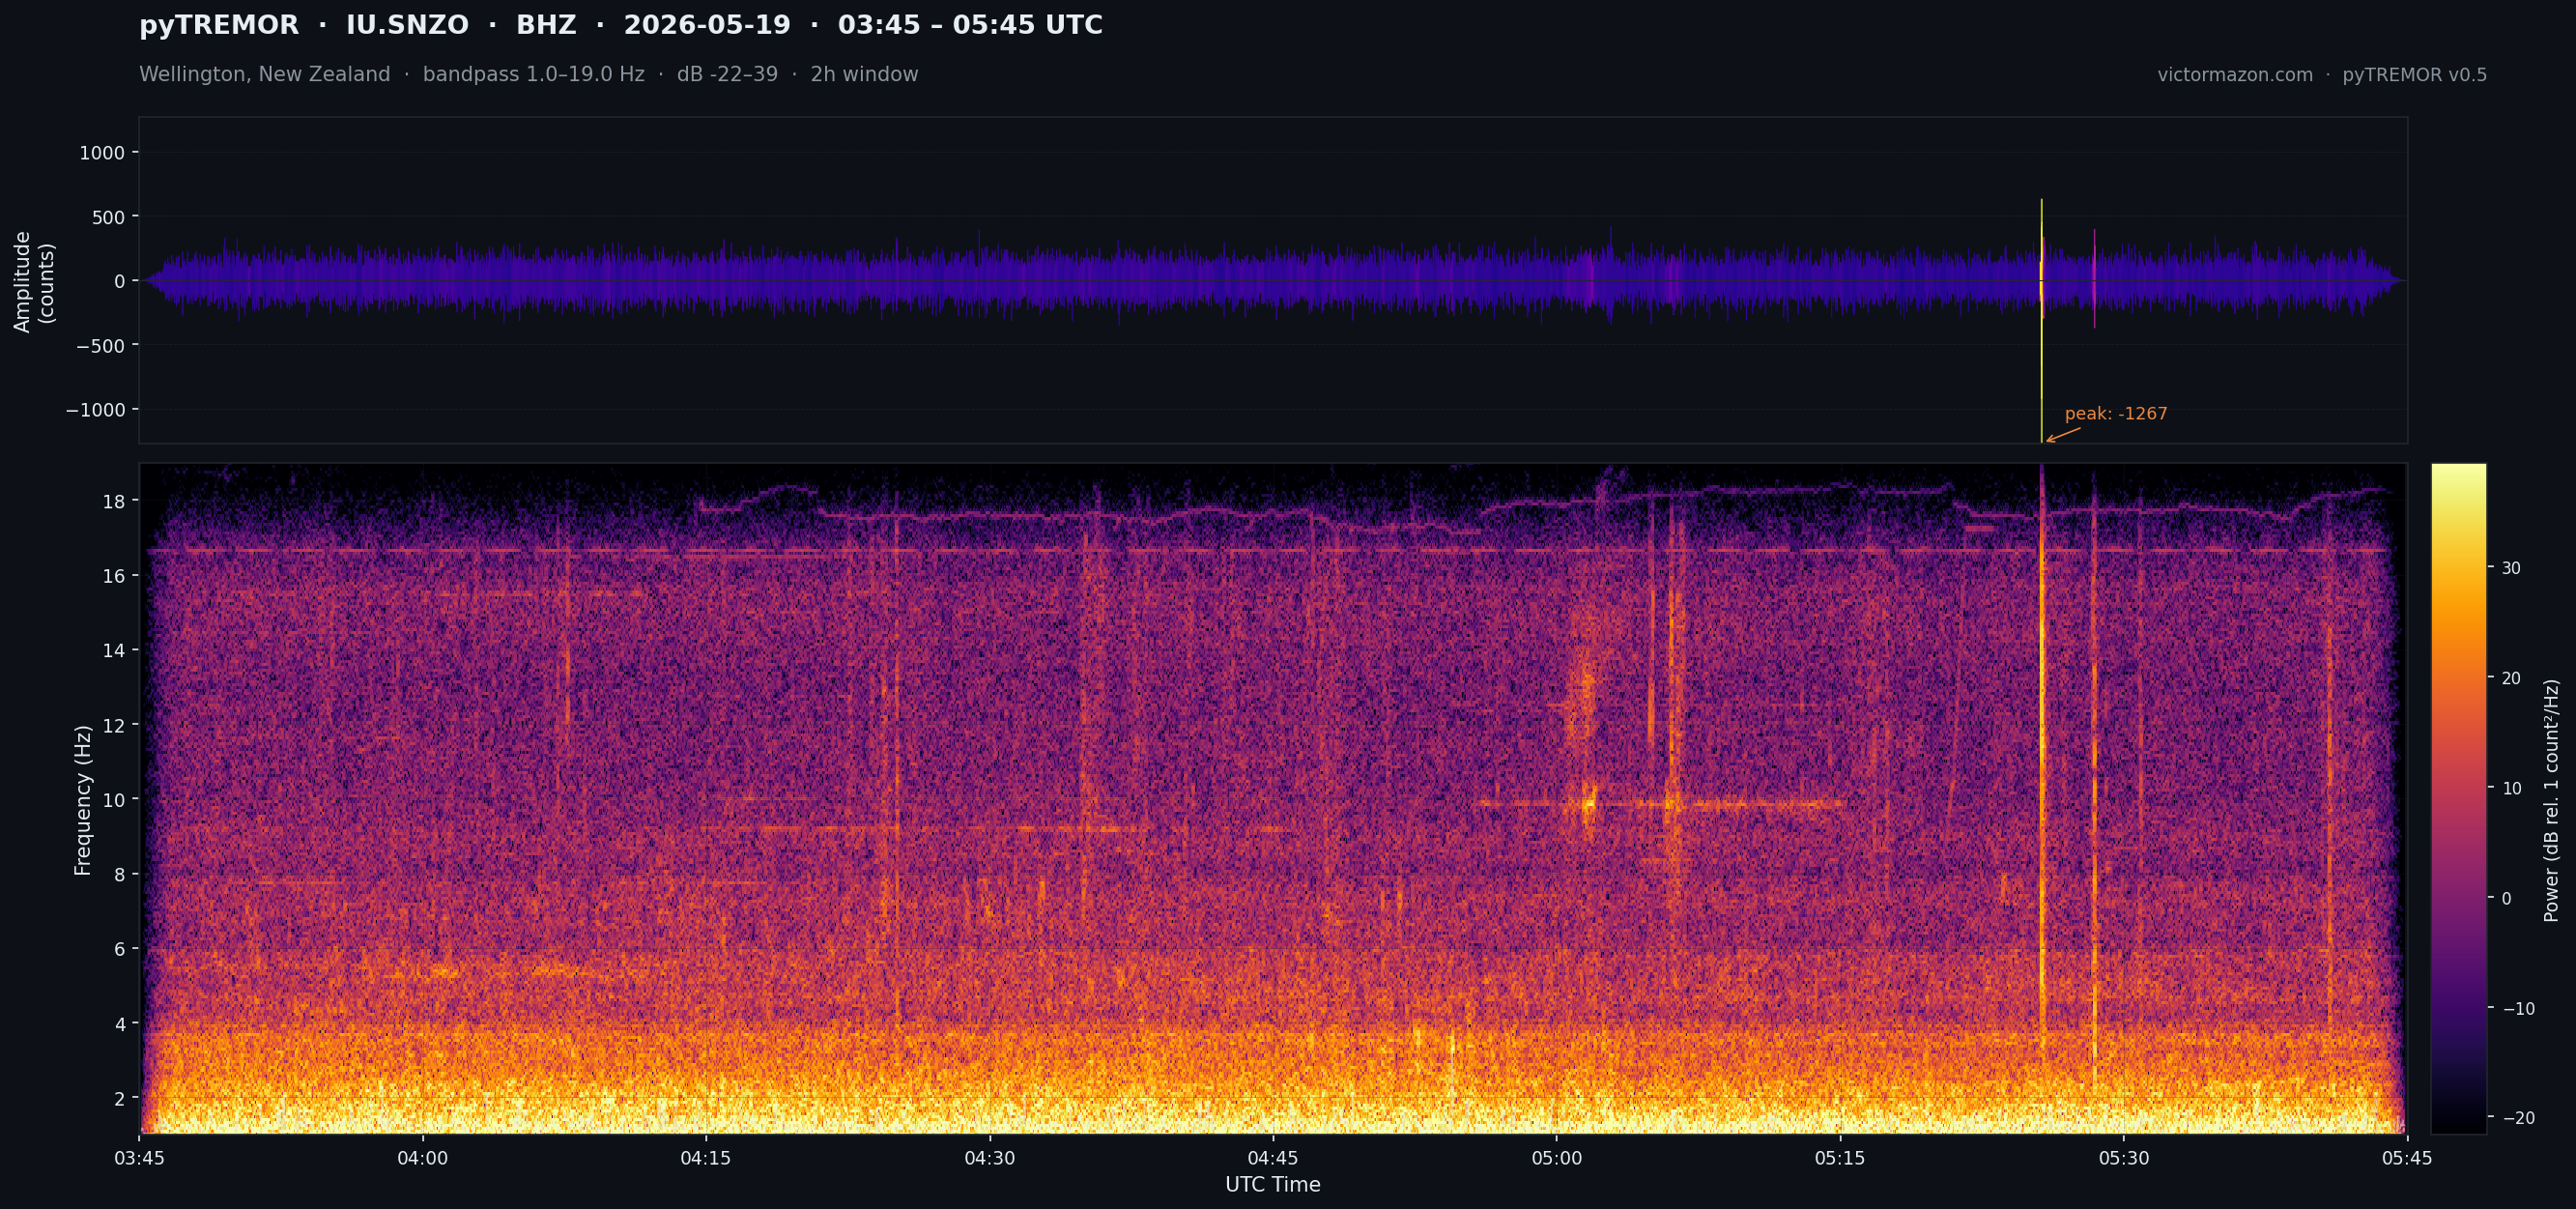
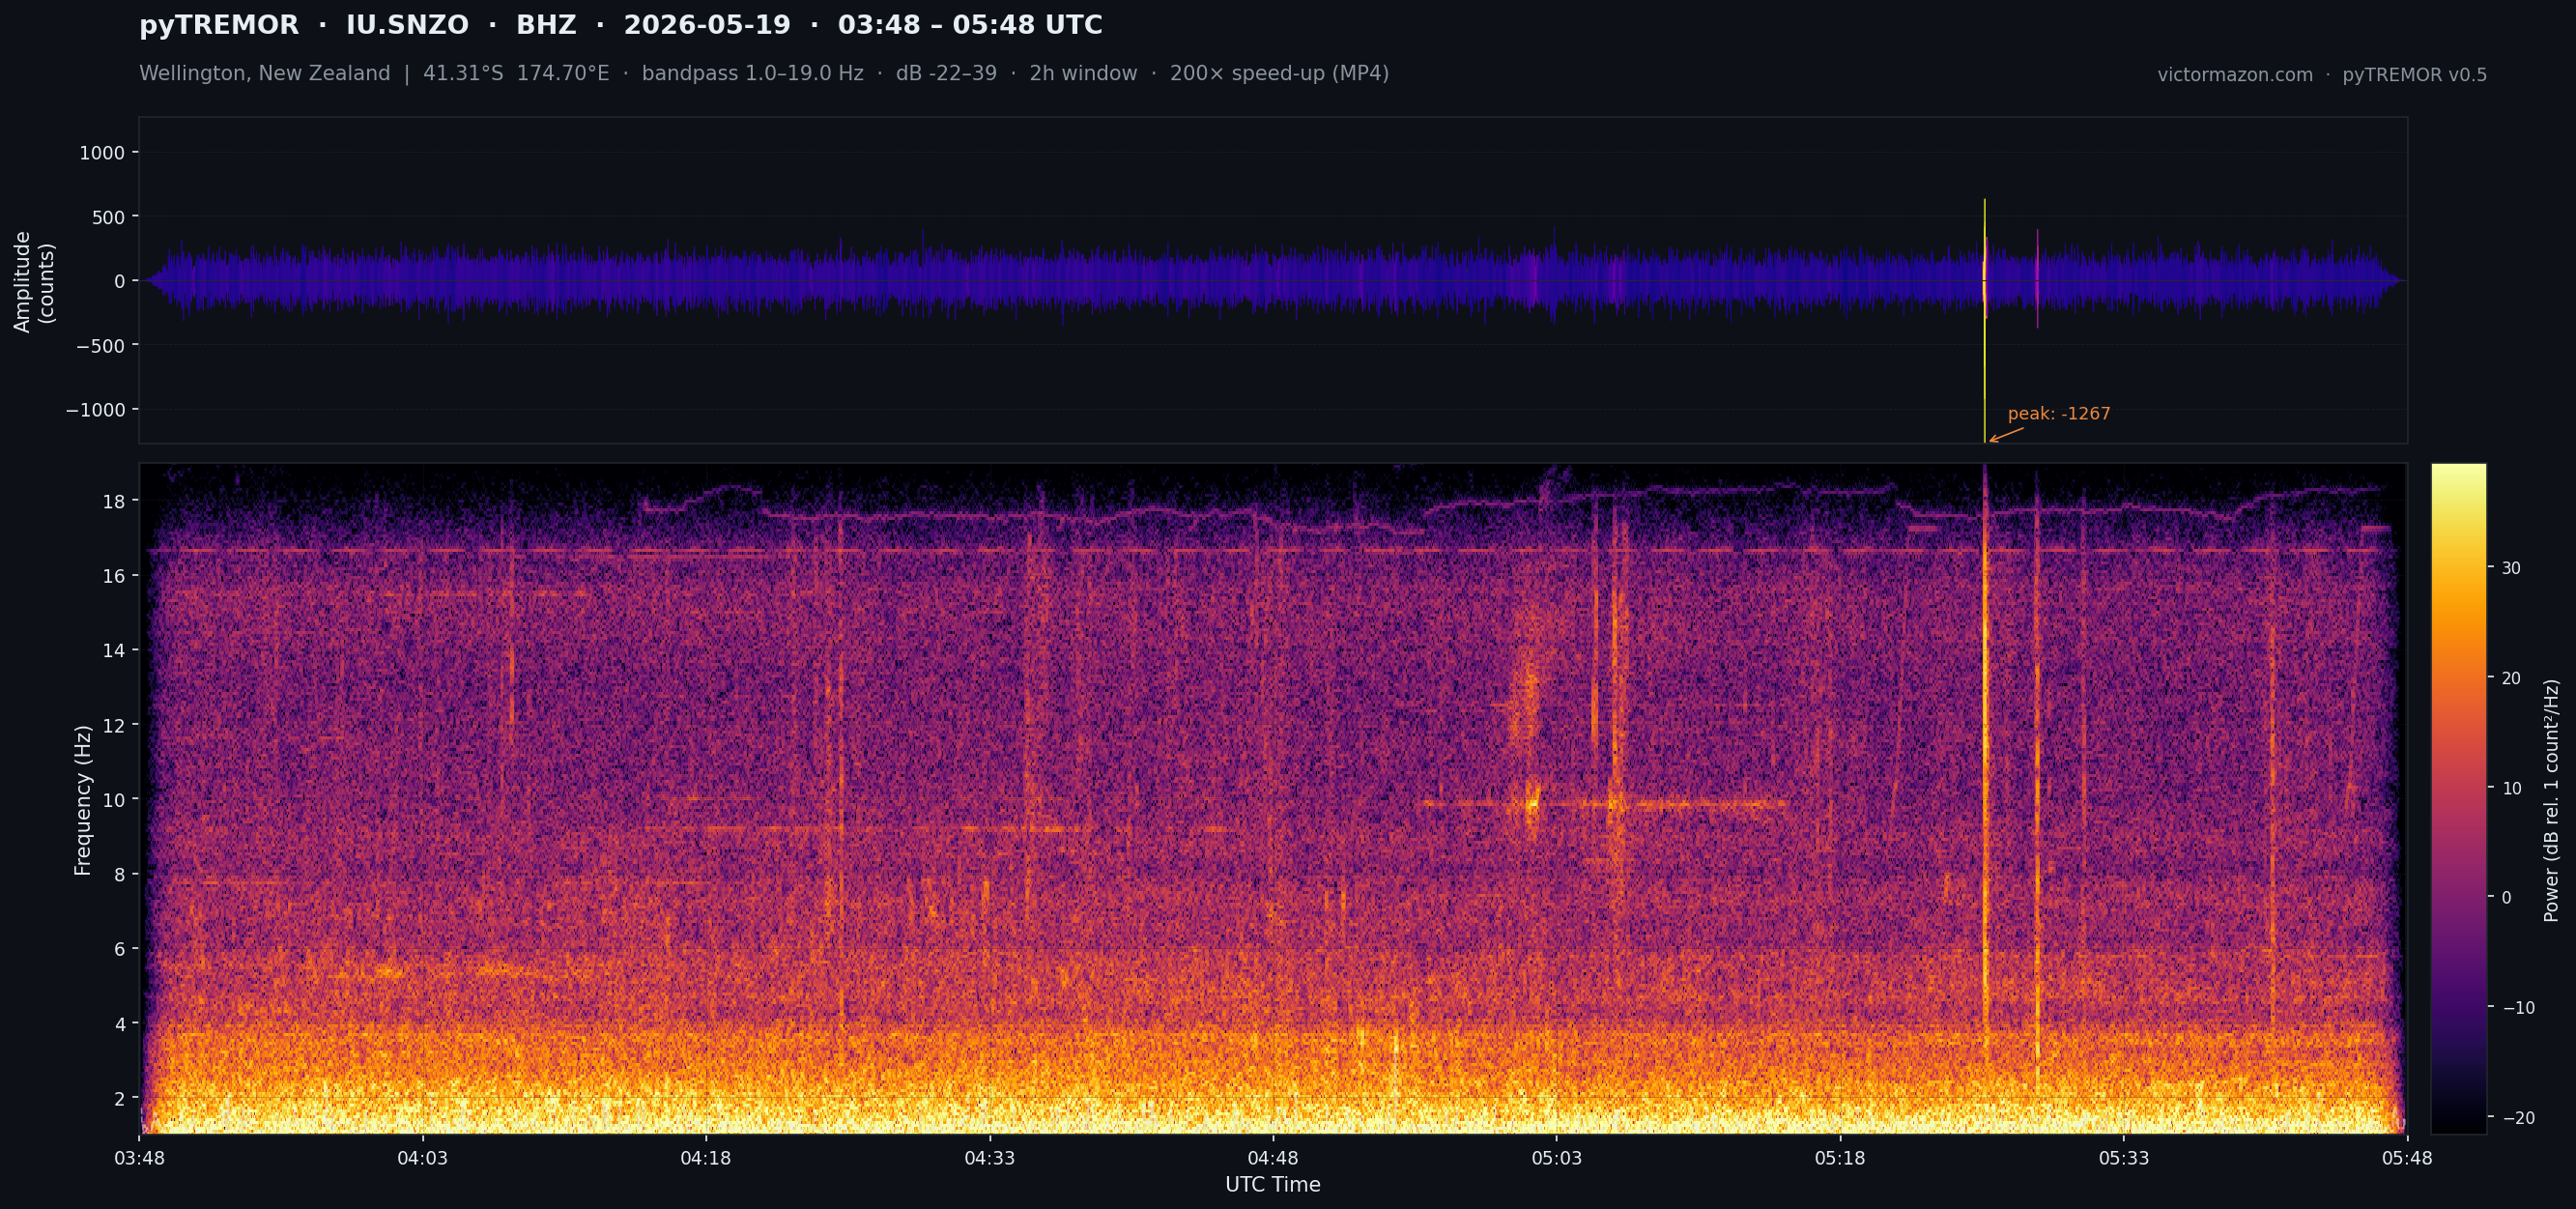
docs: add location coords, speed-up factor to preview subtitle; refresh image

diff --git a/docs/generate_preview.py b/docs/generate_preview.py
@@ -16,16 +16,18 @@ from scipy.interpolate import interp1d as _interp1d
 from obspy.clients.fdsn.routing.routing_client import RoutingClient
 
 # --- Config ---
-NETWORK  = "IU"
-STATION  = "SNZO"
-CHANNEL  = "BHZ"
-LOCATION = "*"
-HOURS    = 2
-FREQMIN  = 1.0
-FREQMAX  = 19.0
-DB_MIN   = None  # auto-scaled from data
-DB_MAX   = None  # auto-scaled from data
-OUT_PATH = "docs/pyTREMOR_preview.png"
+NETWORK      = "IU"
+STATION      = "SNZO"
+CHANNEL      = "BHZ"
+LOCATION     = "*"
+HOURS        = 2
+FREQMIN      = 1.0
+FREQMAX      = 19.0
+SPEED_UP     = 200          # sonification speed-up factor (for MP4 label)
+STATION_LOC  = "Wellington, New Zealand  |  41.31°S  174.70°E"
+DB_MIN       = None  # auto-scaled from data
+DB_MAX       = None  # auto-scaled from data
+OUT_PATH     = "docs/pyTREMOR_preview.png"
 
 BG       = "#0d1117"
 FG       = "#e6edf3"
@@ -186,7 +188,8 @@ fig.text(0.07, 0.94,
          f"pyTREMOR  ·  {NETWORK}.{STATION}  ·  {CHANNEL}  ·  {date_str}  ·  {range_str}",
          color=FG, fontsize=13, fontweight="bold", va="bottom")
 fig.text(0.07, 0.905,
-         f"Wellington, New Zealand  ·  bandpass {FREQMIN}–{FREQMAX} Hz  ·  dB {vmin_auto:.0f}–{vmax_auto:.0f}  ·  {HOURS}h window",
+         f"{STATION_LOC}  ·  bandpass {FREQMIN}–{FREQMAX} Hz"
+         f"  ·  dB {vmin_auto:.0f}–{vmax_auto:.0f}  ·  {HOURS}h window  ·  {SPEED_UP}× speed-up (MP4)",
          color="#8b949e", fontsize=10, va="bottom")
 fig.text(0.97, 0.905,
          "victormazon.com  ·  pyTREMOR v0.5",